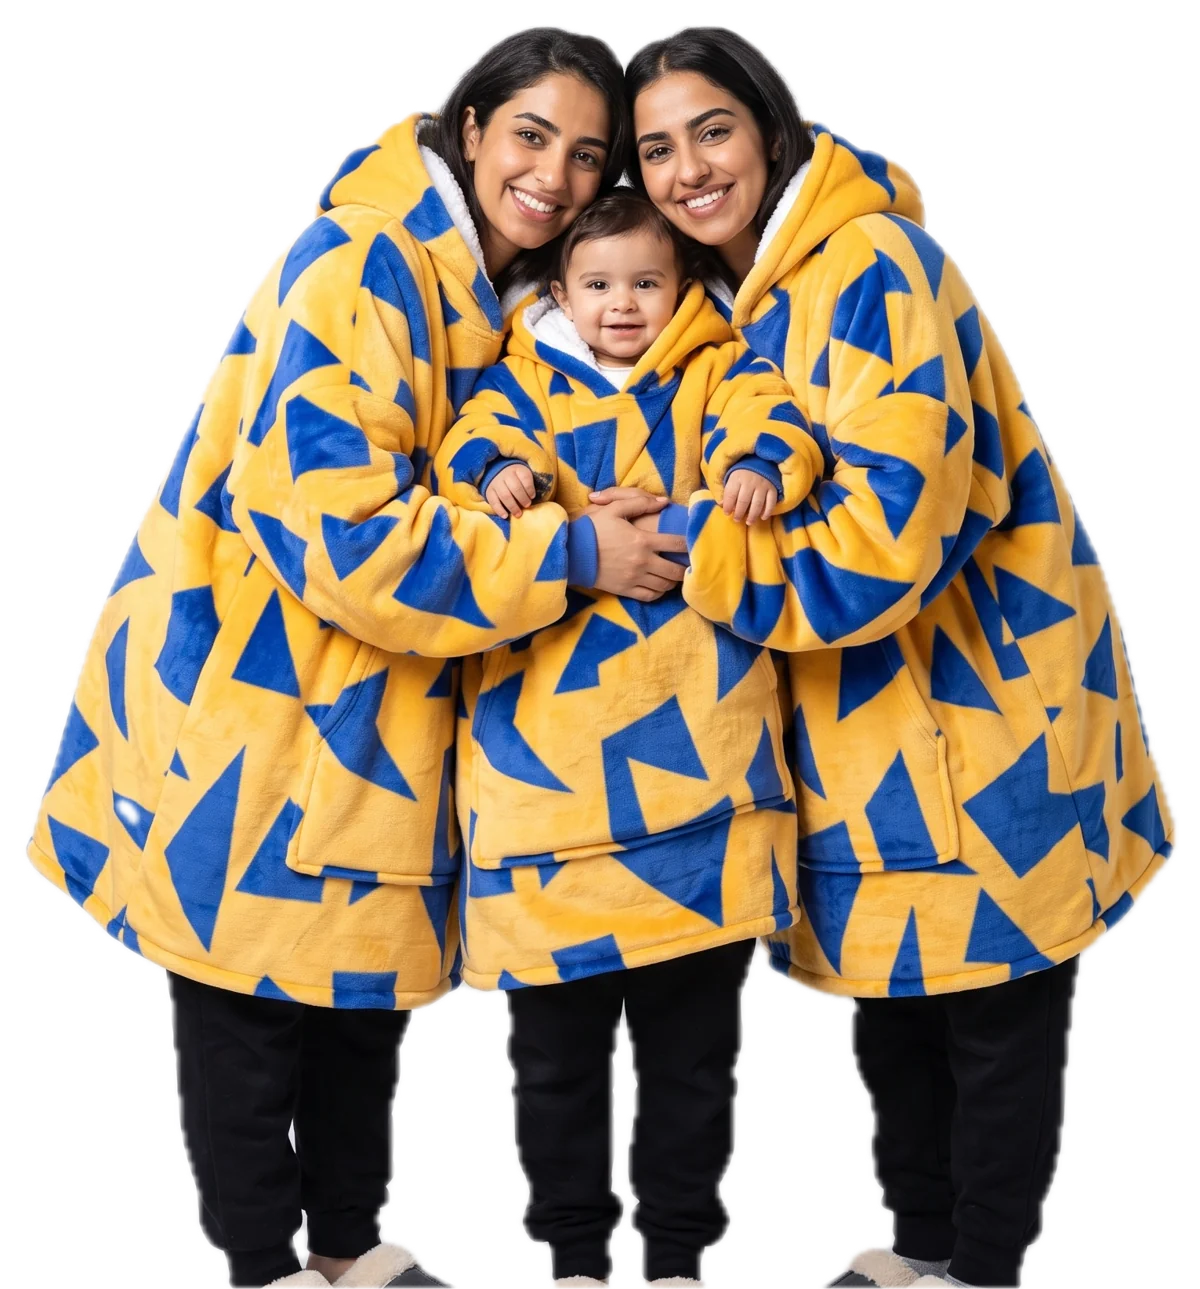
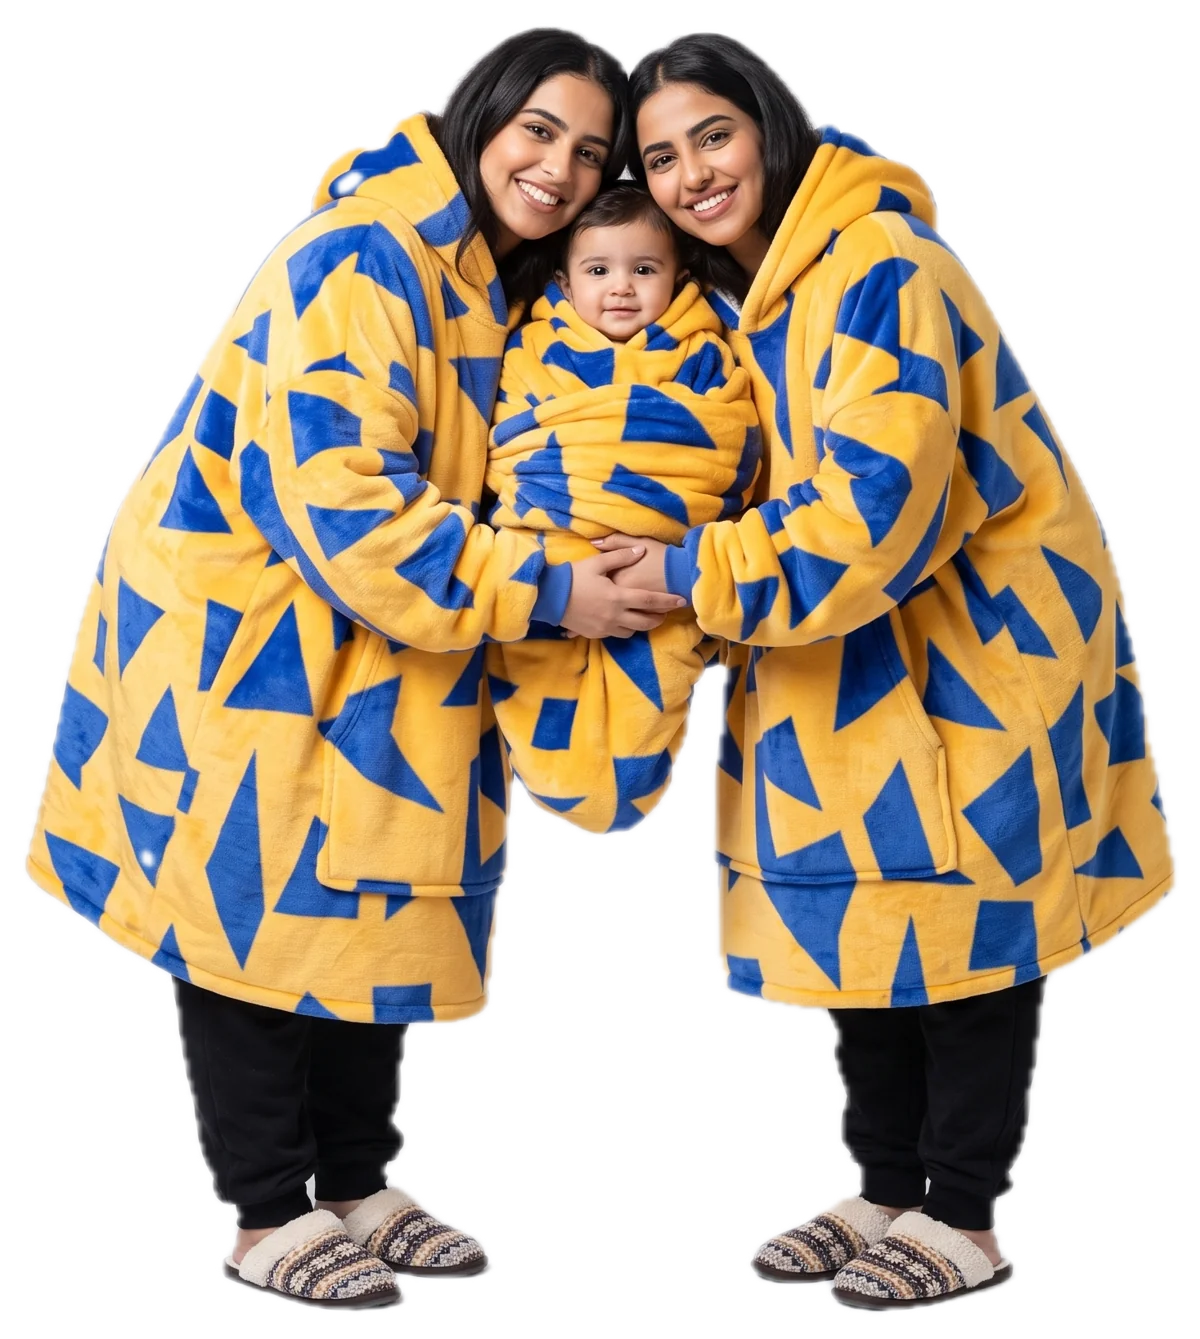
Light hero backgrounds per edition + fully wrapped baby for Faris Al-Dafa
Hero backdrop is now a light edition-tinted field (light blue for najd,
light gold for hijaz/nassr, mint for watan, ivory for shabab) with a
faint diagonal pinstripe, dissolving into the dark page — hides cutout
edges entirely. Baby in the nassr trio is wrapped head to toe.

diff --git a/css/styles.css b/css/styles.css
@@ -231,11 +231,21 @@ html[dir="rtl"] .nav{ direction:rtl; }
   position:relative; width:100%; overflow:hidden;
   height:clamp(380px,68vh,720px);
   margin-block-start:0;
-  background:radial-gradient(ellipse 74% 64% at 50% 36%,color-mix(in srgb,var(--ed-sky,transparent) 46%,transparent) 0%,transparent 74%);
+  /* light edition-tinted field — hides cutout edges, dissolves into the dark page */
+  background:linear-gradient(180deg,
+    color-mix(in srgb,var(--ed-sky,#cfd6e0) 46%,white) 0%,
+    color-mix(in srgb,var(--ed-sky,#cfd6e0) 24%,white) 78%);
   transition:background .65s var(--ease);
   display:flex; justify-content:center; align-items:flex-end;
   -webkit-mask-image:linear-gradient(#000 66%,transparent 97%);
   mask-image:linear-gradient(#000 66%,transparent 97%);
+}
+.bigstage::before{
+  /* faint diagonal pinstripe pattern in the edition colour */
+  content:""; position:absolute; inset:0; pointer-events:none;
+  background:repeating-linear-gradient(135deg,
+    transparent 0 16px,
+    color-mix(in srgb,var(--ed) 6%,transparent) 16px 17px);
 }
 .bigstage__mark{
   position:absolute; inset-inline:0; inset-block-start:50%; transform:translateY(-50%);
@@ -243,8 +253,7 @@ html[dir="rtl"] .nav{ direction:rtl; }
   font-family:var(--disp); font-weight:900; line-height:.92;
   font-size:clamp(3.4rem,14.2vw,15rem); letter-spacing:-.015em;
   color:var(--ed);
-  opacity:.58;
-  text-shadow:0 0 clamp(30px,6vw,90px) var(--ed-glow);
+  opacity:.26;
   transition:color .65s var(--ease);
   -webkit-mask-image:linear-gradient(#000 62%,transparent 98%);
   mask-image:linear-gradient(#000 62%,transparent 98%);
@@ -253,7 +262,7 @@ html[dir="rtl"] .nav{ direction:rtl; }
   position:relative; z-index:2;
   width:100%; height:100%;
   object-fit:cover; object-position:50% 12%;
-  filter:drop-shadow(0 36px 54px rgba(0,0,0,.6));
+  filter:drop-shadow(0 24px 40px rgba(10,14,22,.30));
   transition:opacity .28s ease;
 }
 @media (min-width:1100px){
@@ -262,10 +271,9 @@ html[dir="rtl"] .nav{ direction:rtl; }
 }
 .bigstage__fam.swapping{ opacity:0; }
 .bigstage__floor{
-  position:absolute; z-index:1; inset-inline:12%; inset-block-end:-4px; height:70px;
-  background:radial-gradient(ellipse 50% 100% at 50% 100%,var(--ed-glow) 0%,transparent 70%);
-  opacity:.34; filter:blur(14px); pointer-events:none;
-  transition:background .65s var(--ease);
+  position:absolute; z-index:1; inset-inline:22%; inset-block-end:2px; height:44px;
+  background:radial-gradient(ellipse 50% 100% at 50% 100%,rgba(10,14,22,.30) 0%,transparent 70%);
+  filter:blur(10px); pointer-events:none;
 }
 
 .eyebrow{
@@ -947,7 +955,7 @@ html[dir="rtl"] .cart{ transform:translateX(-100%); }
 @media (max-width:760px){
   .nav{ display:none; }
   .hdr__act{ margin-inline-start:auto; }
-  .hero{ padding-block:34px 60px; }
+  .hero{ padding-block:0 60px; }
   .hero h1{ font-size:clamp(2.5rem,12vw,4.125rem); }
   .stage{ max-width:270px; }
   .specs{ grid-template-columns:1fr 1fr; }
